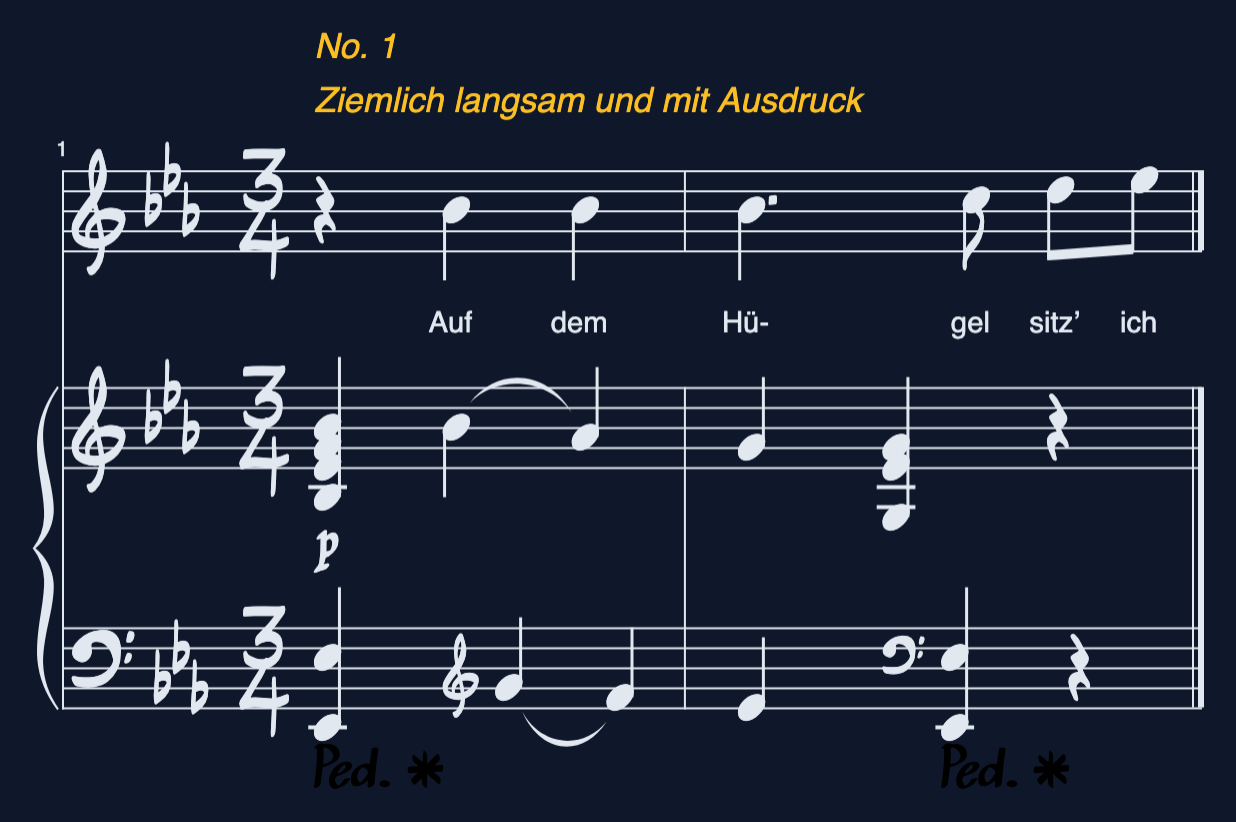
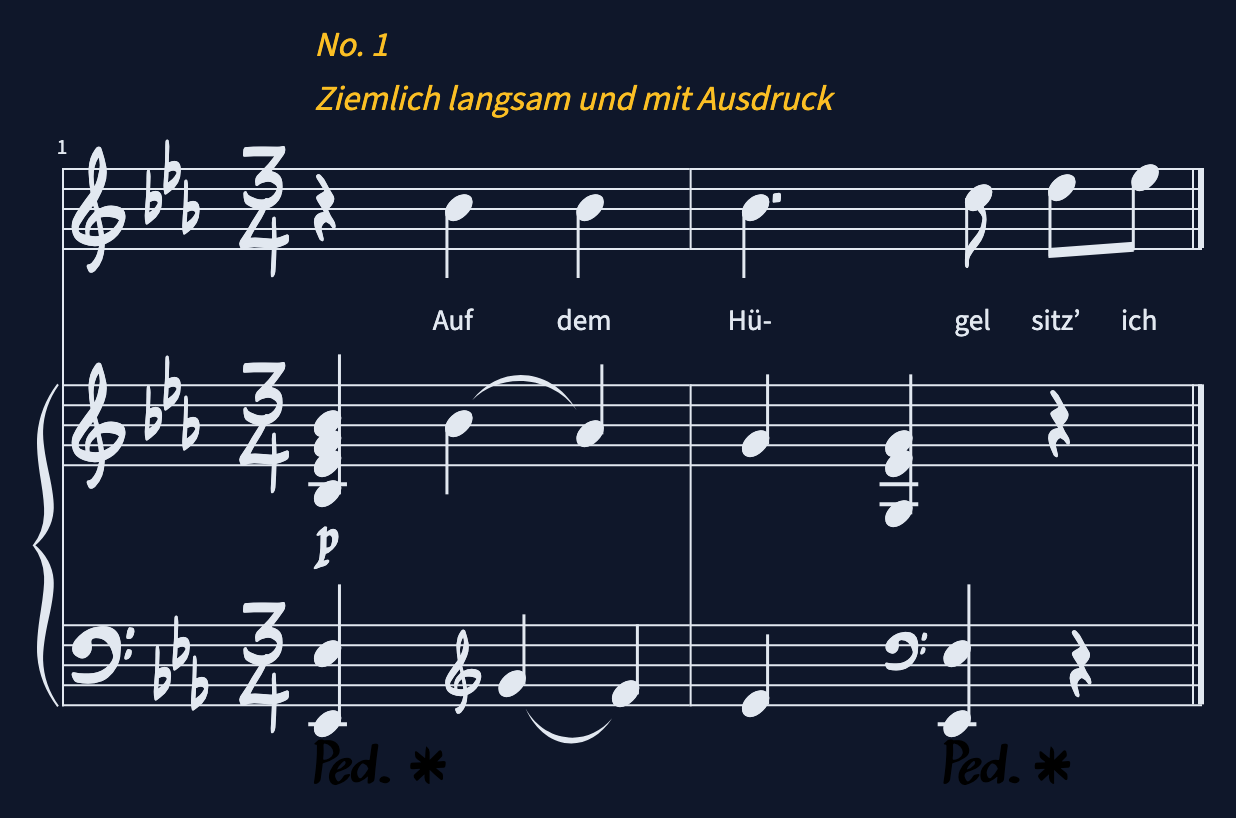
Let a font override set only a color, so the default face still loads

diff --git a/packages/vexml/default-font-loader.ts b/packages/vexml/default-font-loader.ts
@@ -134,14 +134,14 @@ export class DefaultFontLoader implements FontLoader {
 	private injectNotationFont(override?: FontOverride): void {
 		// A URL: inject the caller's own @font-face, and nothing else, so the one face the
 		// page decodes is the file they host.
+		const family = override?.family ?? DEFAULT_FONT_CONFIG.notation.family;
 		if (override?.url) {
-			this.injectFontFace(override.family, override.url, 'block');
+			this.injectFontFace(family, override.url, 'block');
 			return;
 		}
 		// Bravura with no URL (no notation config, or one that only sets a color): vexml's
 		// own shipped woff2. vexml imports vexflow/core, which embeds no fonts, so without
 		// this nothing would define the face.
-		const family = override?.family ?? DEFAULT_FONT_CONFIG.notation.family;
 		if (family === DEFAULT_FONT_CONFIG.notation.family) {
 			this.injectFontFace(family, this.bravuraUrl, 'block');
 		}
@@ -150,16 +150,20 @@ export class DefaultFontLoader implements FontLoader {
 	}
 
 	private injectTextFont(override?: FontOverride): void {
-		// No text config: load the default (Source Sans 3) from Google Fonts.
-		if (!override) {
-			this.injectGoogleFonts();
+		if (override?.url) {
+			this.injectFontFace(
+				override.family ?? DEFAULT_FONT_CONFIG.text.family,
+				override.url,
+				'swap',
+			);
 			return;
 		}
-		// A URL: inject the caller's own @font-face. A family alone: assume it's already
-		// available (a system font or the caller's own @font-face), per FontOverride.url:
-		// inject nothing, so the family resolves synchronously with no network fetch.
-		if (override.url) {
-			this.injectFontFace(override.family, override.url, 'swap');
+		// No family (no text config, or one that only sets a color): load the default
+		// (Source Sans 3) from Google Fonts. A family alone: assume it's already available (a
+		// system font or the caller's own @font-face), per FontOverride.url: inject nothing, so
+		// the family resolves synchronously with no network fetch.
+		if (!override?.family) {
+			this.injectGoogleFonts();
 		}
 	}
 

diff --git a/packages/vexml/default-font-loader.test.ts b/packages/vexml/default-font-loader.test.ts
@@ -51,6 +51,14 @@ describe('DefaultFontLoader', () => {
 		expect(head.filter((n) => n.tag === 'link').length).toBe(0);
 	});
 
+	it('loads google fonts when the text config only sets a color', async () => {
+		const { head, container } = fakeDom();
+		await new DefaultFontLoader(BRAVURA).load(container, {
+			text: { color: 'red' },
+		});
+		expect(head.filter((n) => n.tag === 'link').length).toBe(1);
+	});
+
 	it('injects nothing new on a second default call', async () => {
 		const { head, container } = fakeDom();
 		await new DefaultFontLoader(BRAVURA).load(container); // dedup markers persist on the document
@@ -72,7 +80,7 @@ describe('DefaultFontLoader', () => {
 	it('loads the shipped bravura when the notation config only sets a color', async () => {
 		const { head, container } = fakeDom();
 		await new DefaultFontLoader(BRAVURA).load(container, {
-			notation: { family: 'Bravura', color: 'red' },
+			notation: { color: 'red' },
 		});
 		expect(styleText(head)).toContain(BRAVURA);
 	});

diff --git a/packages/vexml/config.ts b/packages/vexml/config.ts
@@ -107,7 +107,9 @@ export type Config = {
 };
 
 export interface FontOverride {
-	family: string;
+	/** CSS font family (default: Bravura for notation, Source Sans 3 for text). Leave it out to
+	 * only recolor the default face, which vexml then still loads for you. */
+	family?: string;
 	/** woff2 URL, loaded with an injected @font-face. If omitted, the family is assumed
 	 * already loaded (a system font or your own @font-face), except notation Bravura, which
 	 * vexml then loads from its shipped `@stringsync/vexml/fonts/bravura.woff2`. Pass that

diff --git a/packages/renderer/readme-media.ts b/packages/renderer/readme-media.ts
@@ -237,8 +237,7 @@ export class ReadmeMedia {
 						backgroundColor: '#0f172a',
 						fonts: {
 							notation: { family: 'Petaluma', url: petaluma, color: '#e2e8f0' },
-							// No family, so the default text face still loads (FontOverride wants one).
-							text: { color: '#fbbf24' } as unknown as { family: string },
+							text: { color: '#fbbf24' },
 						},
 					},
 				);

diff --git a/skills/vexml/SKILL.md b/skills/vexml/SKILL.md
@@ -181,15 +181,14 @@ and `backgroundColor` paints the container. Each takes any CSS color string.
 await render(musicXML, element, {
   backgroundColor: '#fce4ec',
   fonts: {
-    notation: { family: 'Bravura', color: '#1d4ed8' },
-    text: { family: 'Inter', url: '/fonts/inter.woff2', color: '#c2410c' },
+    notation: { color: '#1d4ed8' },
+    text: { color: '#c2410c' },
   },
 });
 ```
 
-`FontOverride.family` is required in TypeScript. Naming `Bravura` keeps the bundled
-notation font, but naming the default text family (`Source Sans 3`) without a `url`
-stops vexml loading it from Google Fonts, so give the text font a `url` when coloring it.
+Leave `family` out to recolor a default face, which vexml still loads. A `family` without
+a `url` is assumed already on the page (a system font or your own `@font-face`).
 
 ## Events
 
